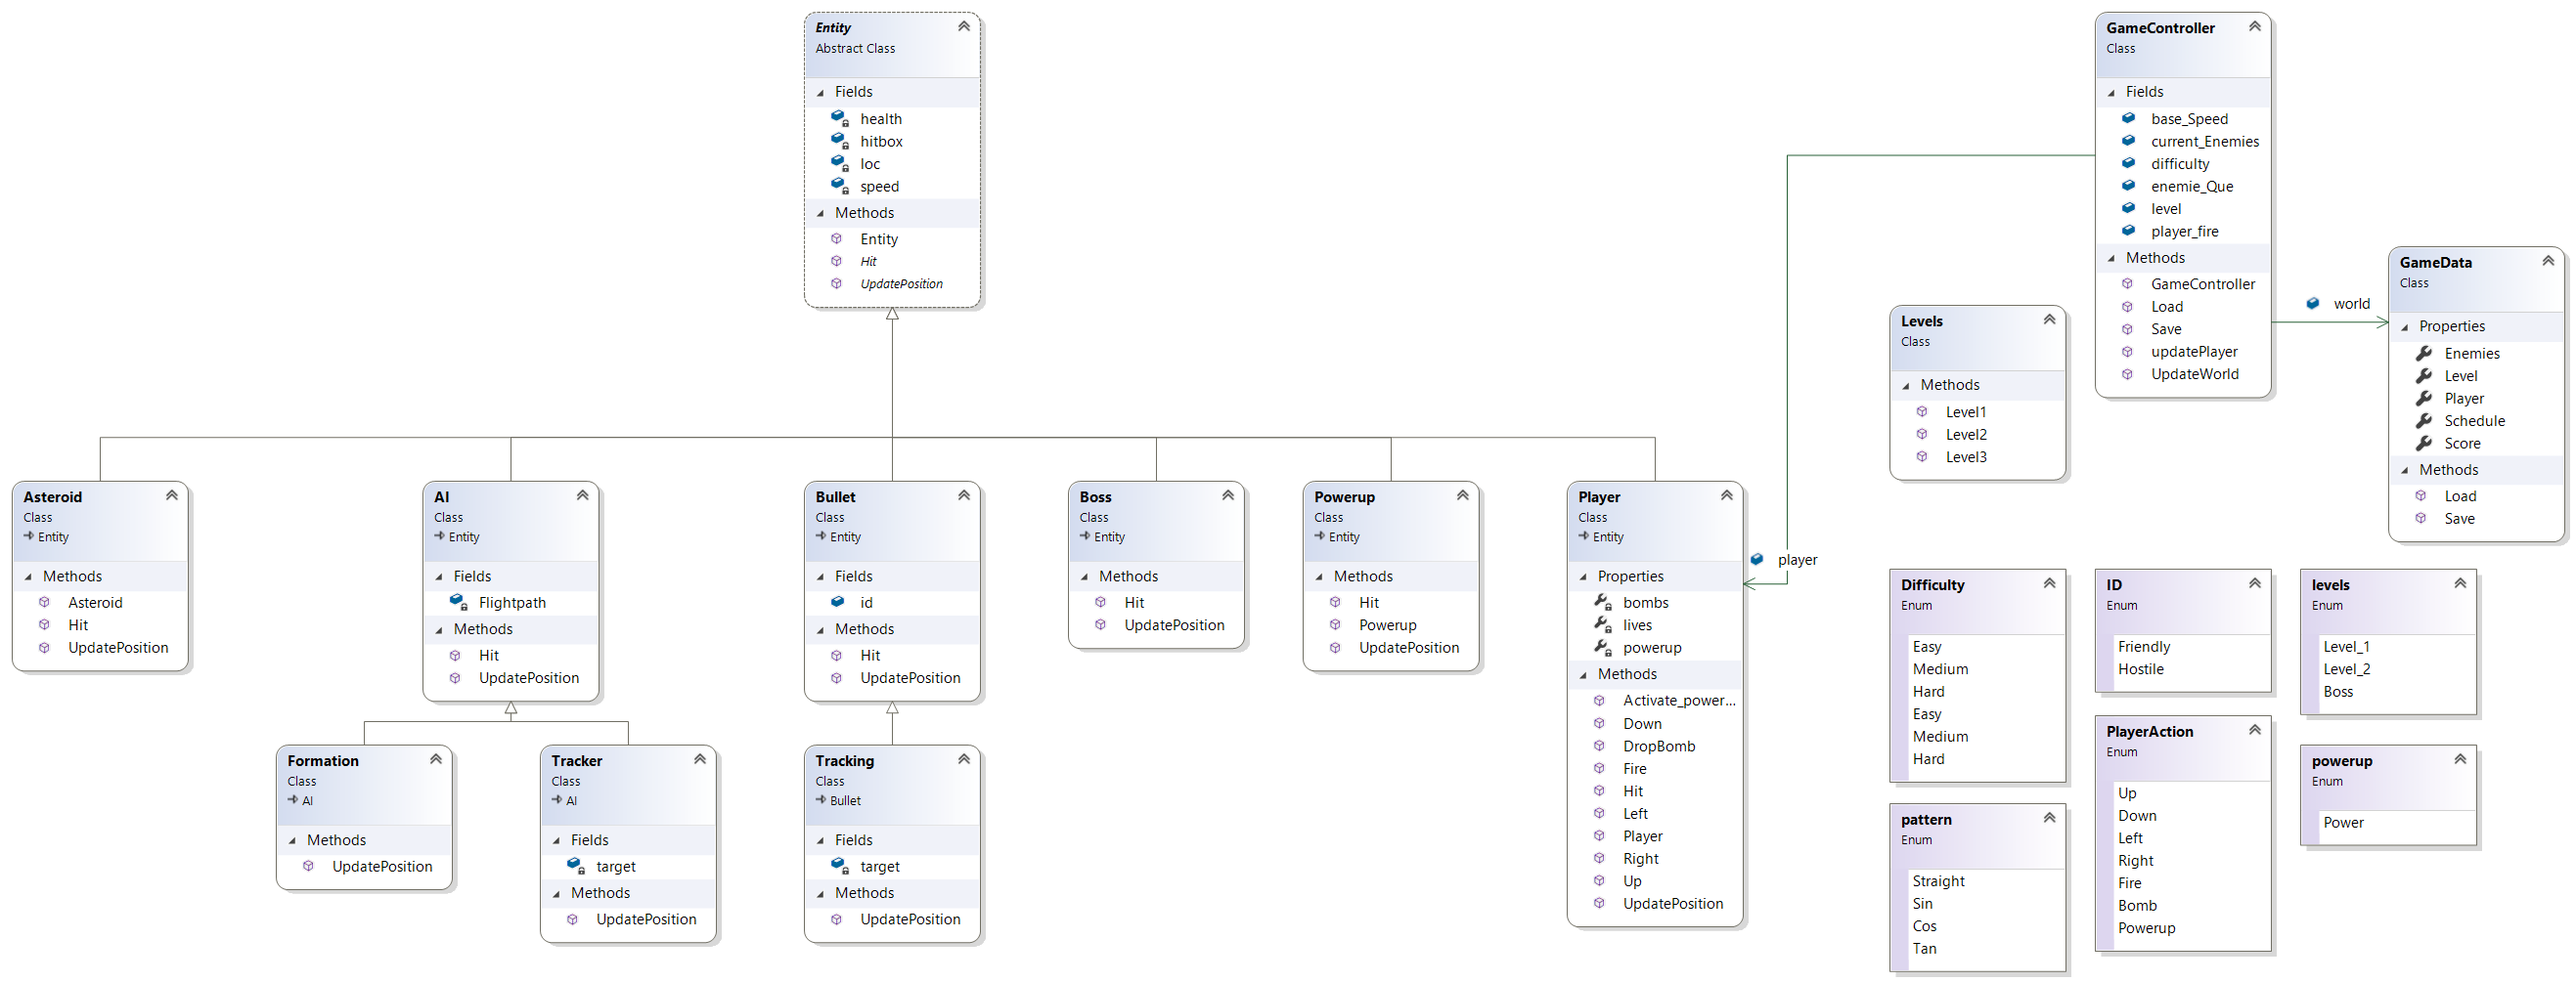
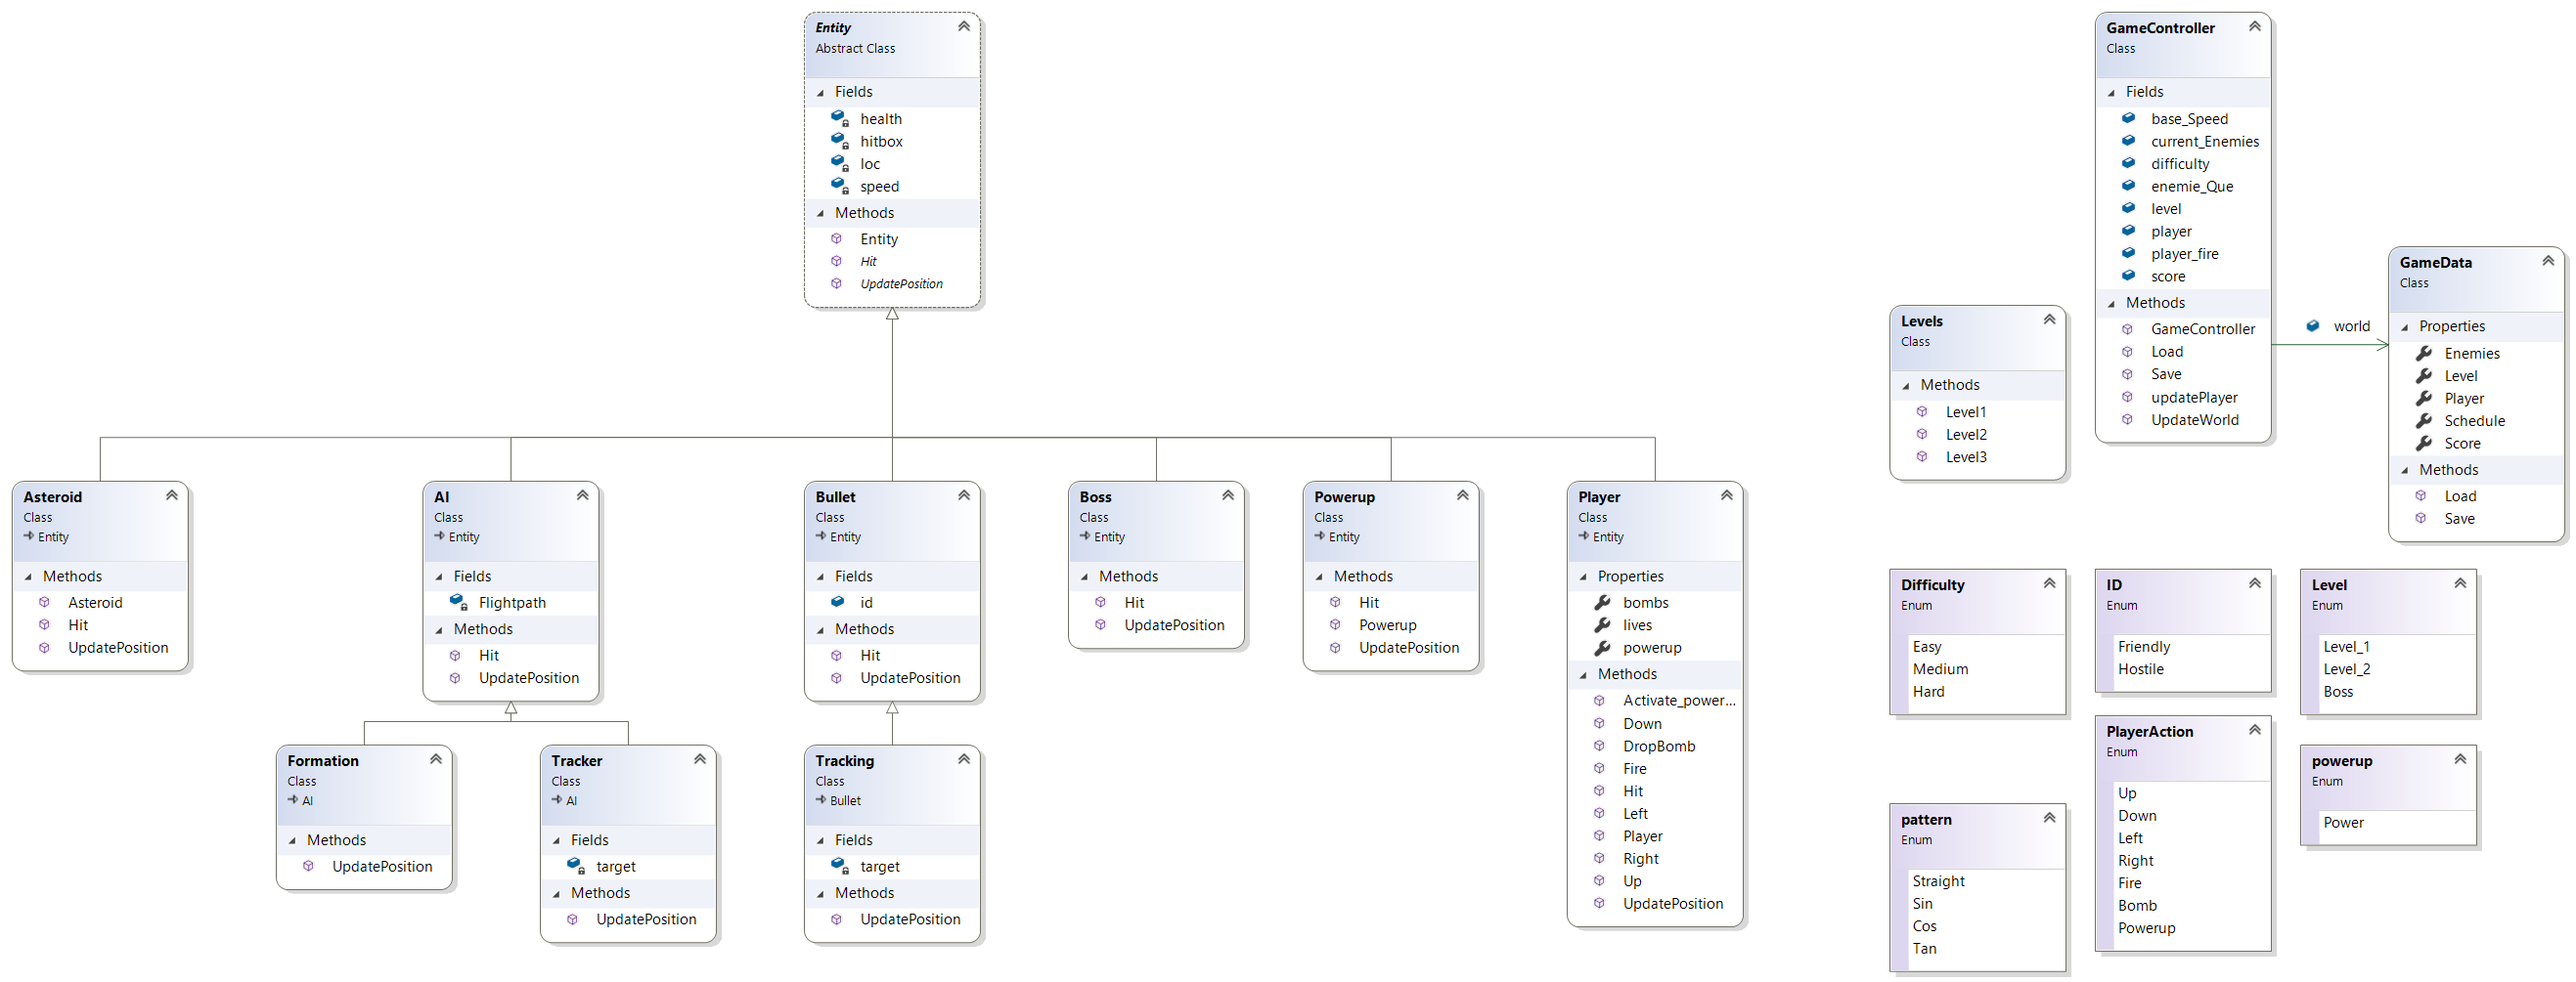
last min changes to diagram

Changed region(s): [[0.8094, 0.2468, 0.9339, 0.4627], [0.716, 0.7095, 0.8094, 0.802]]

diff --git a/SpaceAce/UnitTests/Model_tests.cs b/SpaceAce/UnitTests/Model_tests.cs
@@ -4,11 +4,39 @@ using System.Linq;
 using System.Text;
 using System.Threading.Tasks;
 using Microsoft.VisualStudio.TestTools.UnitTesting;
-
+using Model;
 namespace SpaceAce.UnitTests
 {
-    class Model_tests
+    [TestClass]
+    public class Model_tests
     {
-        //TODO: stuff
+        [TestMethod]
+        public void Make_NewGame()
+        {
+        GameController gc = new GameController(Level.Level_1,Difficulty.Easy);
+        Assert.IsTrue(gc.difficulty == Difficulty.Easy);
+        Assert.IsTrue(gc.level == Level.Level_1);
+        Assert.IsTrue(gc.enemie_Que != null);
+        Assert.IsTrue(gc.player.lives == 3);
+        Assert.IsTrue(gc.player.bombs == 3);
+        Assert.IsTrue(gc.base_Speed == 1);
+        }
+
+        [TestMethod]
+        public void Invoke_updateWorld() { }
+
+        [TestMethod]
+        public void Test_Load() { }
+
+        [TestMethod]
+        public void Test_save() { }
+        
+        [TestMethod]
+        public void Test_updateplayer() { }
+
+        [TestMethod]
+        public void Test_collision() { }
+
+
     }
 }

diff --git a/SpaceAce/Model/Player.cs b/SpaceAce/Model/Player.cs
@@ -12,9 +12,9 @@ namespace Model
     public class Player: Entity
 
     {
-        private int lives { get; set; }
-        private int bombs { get; set; }
-        private powerup powerup { get; set; }
+        public int lives { get; set; }
+        public int bombs { get; set; }
+        public powerup powerup { get; set; }
 
         public Player(int lives, int bombs)
         {
